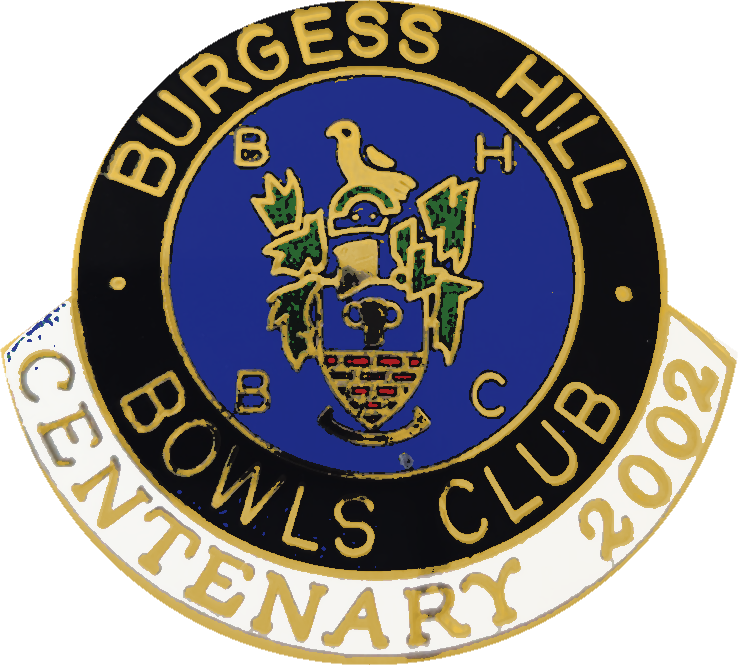
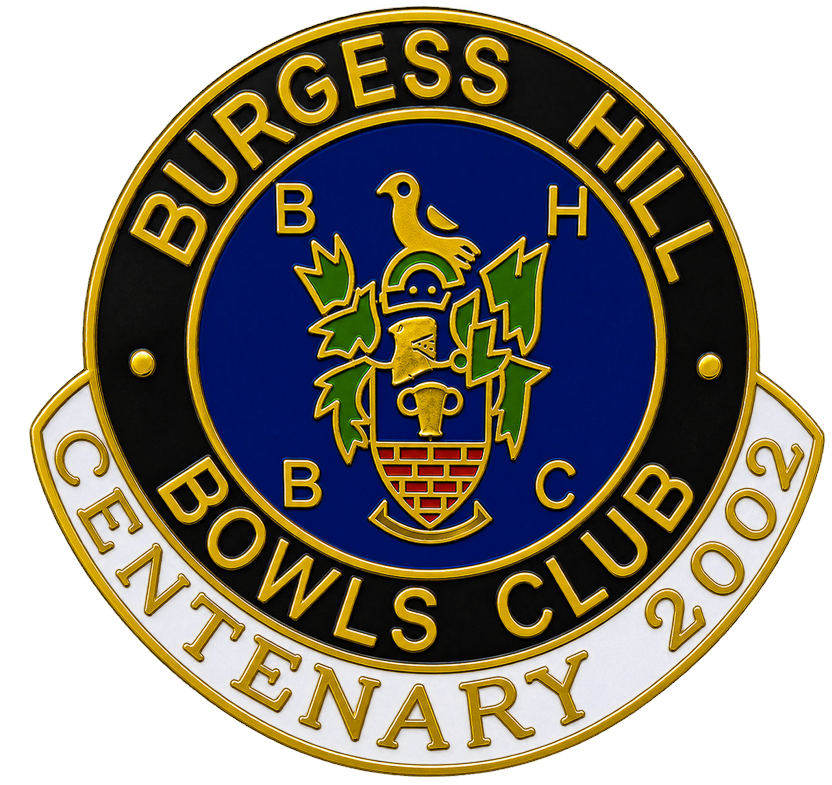
Honours boards: clearer centenary pin
New pin image, fully opaque, cropped tight and with the hidden background
colour cleared; its aspect ratio updated to match (832 x 785).

diff --git a/src/types/honours-board-style.ts b/src/types/honours-board-style.ts
@@ -131,7 +131,7 @@ export interface TitlePicture {
 // badge, from the website's history photo with the enamel colours evened out and the
 // reflections and dust taken out.
 export const CREST: TitlePicture = { file: '/images/honours-boards/crest.png', aspect: 311 / 504, heightShare: 1 };
-export const CENTENARY_PIN: TitlePicture = { file: '/images/honours-boards/centenary-pin.png', aspect: 738 / 665, heightShare: 0.85 };
+export const CENTENARY_PIN: TitlePicture = { file: '/images/honours-boards/centenary-pin.png', aspect: 832 / 785, heightShare: 0.85 };
 
 /** What goes beside the title: nothing, the crest on the left or both sides, or crest left and pin right. */
 export type LogoPlace = 'none' | 'left' | 'both' | 'crest_pin';
